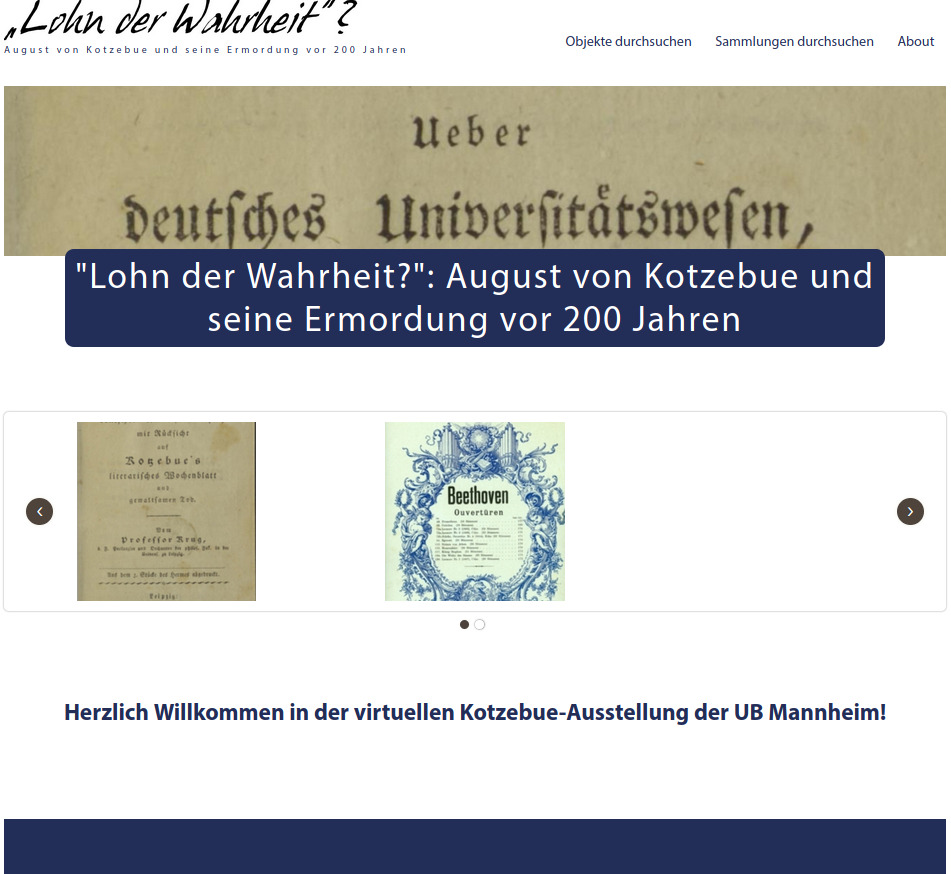
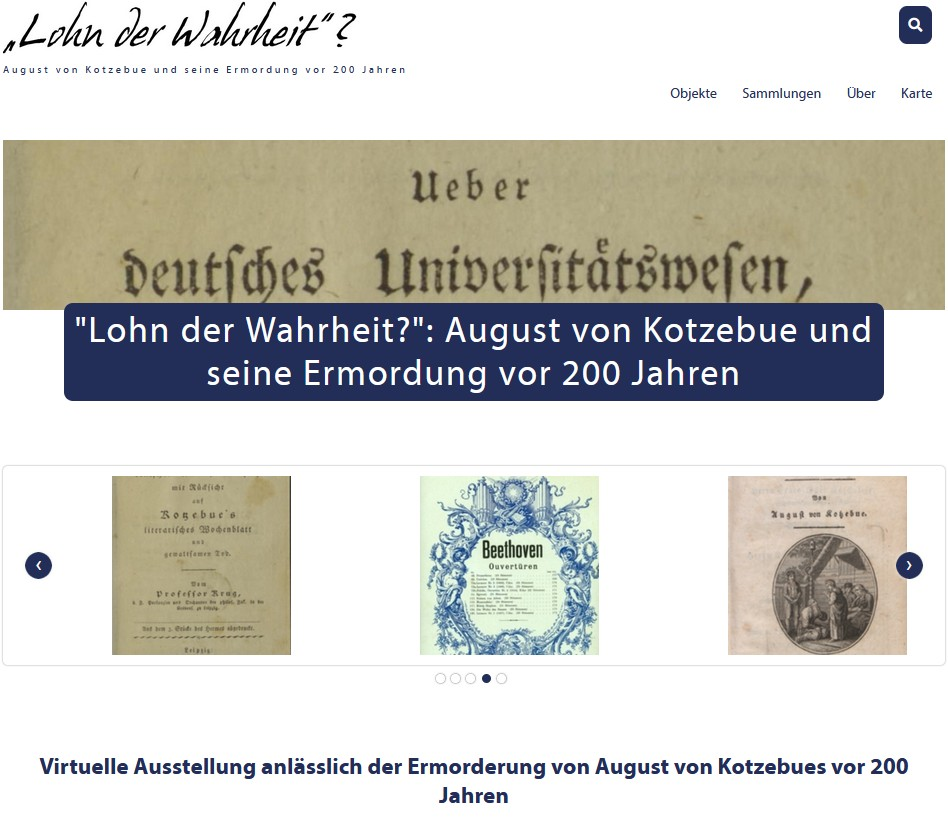
Add more info and explanations to the README + update the theme image

diff --git a/README.md b/README.md
@@ -1,5 +1,138 @@
 # Omeka Classic theme for MAObjects
 
-This theme is based on the [Center Row theme](https://github.com/omeka/theme-centerrow).
+This theme is based on the [Center Row](https://github.com/omeka/theme-centerrow) theme.
 
-It is used by the Mannheim University Library in the context of [MAObjects](https://www.bib.uni-mannheim.de/en/teaching-and-research/research-data-center-fdz/services-of-the-fdz/maobjects/) Omeka deployments.
+It is used by the [Mannheim University Library](https://www.bib.uni-mannheim.de) in the context of [MAObjects](https://www.bib.uni-mannheim.de/en/teaching-and-research/research-data-center-fdz/services-of-the-fdz/maobjects/) Omeka deployments to provide a theme in the corporate design of the [University of Mannheim](https://www.uni-mannheim.de/). MAObjects is a service of the Mannheim University Library that provides researchers with an Omeka-based platform to create and present digital object collections and virtual exhibitions by uploading digital objects, describing them with standardised metadata, and making the data available via an API.
+
+<!-- ![Theme Example (Kotzebue Exhibition)](theme.jpg) -->
+<a href="https://fdz.bib.uni-mannheim.de/kotzebue/"><img src="theme.jpg" alt="Theme Example (Kotzebue Exhibition)" style="max-width:70%; height:auto;" /></a>
+
+- **Powerful search integration:** Optional advanced site-wide search, ability to route or hide the quick search bar, and show/hide child pages in top navigation.
+- **Customizable homepage:** Featured item/collection/exhibit, intro text, optional slideshow with autoplay and speed, optional “floating” minimal homepage layout, and toggleable breadcrumbs.
+- **Item & media display controls:** Multiple user-selected layout options. Optional Lightgallery support (incl. PDFs via PDF Embed), handling of non-image media, configurable media captions, options to hide headings/DC title, and show/hide citation.
+- **Collection views:** Configurable collection browse page style (e.g. grid/list) and options to hide headings/duplicate title entries on collection pages.
+- **Background image options:** Site-wide background image with control over position, repeat, size, and whether it appears beneath the main content area.
+- _much more...!_
+
+## Theme settings
+
+This theme offers extensive customization options through the Omeka admin interface. The listings are grouped in the same way as in the Appearance → Configure Theme screen.
+
+### General
+These options apply to various general aspects of the theme.
+|     Setting     |     Description     |
+|-----------------|---------------------|
+| Disable Image Hover Effect | Disables the zoom-on-hover effect for images throughout the theme. |
+
+### Colors
+Provide a hex code to set the color of different elements of the theme. (Read more about html color codes here. Omeka only uses hex codes, formatted `#XXXXXX`.)
+|     Setting     |     Description     |
+|-----------------|---------------------|
+| Body background color | Hex color for the main page background. |
+| Border color | Hex color used for borders and separators in the theme. |
+| Link color | Hex color for links (normal state). |
+
+### Header and Footer
+These options apply to the header and footer of the theme, including the quick search bar button in the header.
+|     Setting     |     Description     |
+|-----------------|---------------------|
+| Logo File | Upload a logo image to replace the site title in the header (recommended max width ≈ 500 px). |
+| Logo Text | Optional text shown together with the logo (e.g. subtitle or project name). |
+| Logo Text Position | Controls whether the logo text is shown below or beside the logo. |
+| Header Image | Image displayed below the header bar (e.g. banner image). |
+| Header Image Height | Maximum height for the header image (CSS length value such as `300px`, `15rem`, etc.). |
+| Header Image Height For Mobile Devices | Maximum height for the header image on smaller screens. |
+| Header Image Position | Vertical alignment of the header image within its container (top, center or bottom). |
+| Alt Text for Header Image | Alternative text for the header image to improve accessibility and screen-reader support. |
+| Show Header Image On Homepage | Shows the header image on the homepage as well as on other pages. |
+| Footer Text | Custom text/HTML shown in the footer of every page. |
+| Display Copyright in Footer | Appends the site’s copyright information to the footer. |
+| Use Advanced Site-wide Search | Enables Omeka’s advanced search form so users can search across record types and choose boolean operators. |
+| Replace quick search bar with link to items/search | Routes queries from the quick search bar to the `/items/search` page instead of using the basic search. |
+| Do not provide quick search bar | Completely hides the quick search bar from the header. |
+| Show Top Navigation Child Pages | Shows child pages as dropdowns under the top navigation items; when unchecked, only top-level pages are shown. |
+
+### Homepage
+These options apply to the homepage. Most of these options apply only if no other homepage is set in the Omeka settings ( Select a Homepage).
+
+|     Setting     |     Description     |
+|-----------------|---------------------|
+| Display Featured Item | Shows a featured item block on the homepage. |
+| Display Featured Collection | Shows a featured collection block on the homepage. |
+| Display Featured Exhibit | Shows a featured exhibit block (requires the Exhibit Builder plugin). |
+| Homepage Text | Introductory text/HTML displayed on the homepage. |
+| Autoplay Homepage Slides | Automatically cycles through slides in the homepage carousel. |
+| Slide Autoplay Speed | Time in milliseconds between slide transitions when autoplay is enabled (e.g. `5000` = 5 seconds). |
+| Floating Homepage | Uses a “floating” layout where the main homepage content card appears detached from the page background. |
+| Hide 'breadcrumbs' | Hides the breadcrumb trail (the path to the current page) from the top of content pages. |
+
+### Items: Browse
+These options apply to the items browse page (Browse All, Browse by Tag, Browse by Collection, etc.). This is the overview of all items.
+
+|     Setting     |     Description     |
+|-----------------|---------------------|
+| Browse Item Page Style | Choose between **Grid** (thumbnail-focused) and **List** (metadata-focused) layout for item browse pages. |
+| Hide Secondary Navigation | Hides the secondary navigation on browse pages (Browse All, Browse Collections, Browse by Tag, etc.). |
+| Show list of output formats | Shows links to available output formats on item browse and item show pages. |
+
+### Items: Page
+|     Setting     |     Description     |
+|-----------------|---------------------|
+These options apply to the item (show) page. This is the item detail view of one specific item.
+| Layout | Selects the item page layout: vertical (media above/below metadata) or horizontal (media and metadata side by side, with media on left or right). |
+| Content Ratio | For horizontal layouts, percentage width of the primary (media) column; the metadata column uses the remaining width. |
+| Show only primary media | Shows only the primary media file on the item page and hides all other attached files. |
+| Non-Image Media | When enabled, non-image files that cannot be shown in the media viewer are listed as downloadable links instead of being hidden. |
+| Use lightgallery | Uses the lightgallery viewer to display media; when combined with the PDF Embed plugin, PDFs can be shown in the gallery as well. |
+| Hide toolbar from PDF viewer | Hides the PDF viewer toolbar when using PDF Embed with PDF.js (if supported by the browser). |
+| Media Caption | Defines which metadata appears as the caption in lightgallery slides: item **Title**, **Description**, or **None**. |
+| Hide heading | Hides the main heading on the item page. (To hide all element set headings globally, use the Omeka Settings screen.) |
+| Hide Dublin Core Title entry | Hides the “Dublin Core: Title” element in the metadata list (useful to avoid duplicating the page heading). |
+| Show citation | Displays a citation box on the item page. |
+
+### Collection: Browse
+These options apply to the collection browse pages (overview of all collections). This is the overview of all collections.
+|     Setting     |     Description     |
+|-----------------|---------------------|
+| Browse Collection Page Style | Choose between **Grid** and **List** layout for the collection browse page. |
+
+### Collection: Page
+These options apply to the collection show pages (overview of one collections, showing some items). This is the collection detail view of one specific collection.
+|     Setting     |     Description     |
+|-----------------|---------------------|
+| Show Collection Items as list | Information-only reminder that setting **Browse Item Page Style** to *List* will also show collection items in a list on collection pages. |
+| Hide heading | Hides the main heading on the collection page. |
+| Hide Dublin Core Title entry | Hides the “Dublin Core: Title” element in the collection metadata to avoid repeating the heading. |
+
+### Background Image
+These options allow to set a background image which is shown in the background of the theme.
+|     Setting     |     Description     |
+|-----------------|---------------------|
+| Body Background Image | Uploads an image that is used as the global page background. |
+| Body Background Image Position | Chooses how the background image is anchored when the viewport is resized (center, top, bottom, left, right). |
+| Body Background Image Repeat | Controls tiling of the background image (no repeat, repeat, horizontal repeat, vertical repeat). |
+| Body Background Image Size | Controls how the background image is scaled (automatic, cover the viewport, or contain within it). |
+| Do not show background image under content | When enabled, the background image is not shown beneath the main content area, keeping the content background solid. |
+
+## Installation
+
+1. Download the theme archive from the [Omeka themes collection](https://omeka.org/classic/themes/maobjects/) or clone this repository into your Omeka installation's `themes` directory.
+2. In the Omeka admin dashboard, navigate to "Appearance" and activate the "MAObjects" theme by clicking on the "Use this theme"-button.
+3. Customize the theme settings as needed.
+
+## Contributing
+Contributions are welcome! Please fork the repository and submit a pull request with your changes. For major changes, please open an issue first to discuss what you would like to change.
+
+## Copyright & Licence
+
+MAObjects is Copyright © 2024-present Mannheim University Library, Mannheim, Germany [https://www.bib.uni-mannheim.de](https://www.bib.uni-mannheim.de).
+
+Center Row is Copyright © 2018-present Corporation for Digital Scholarship, Vienna, Virginia, USA [http://digitalscholar.org](http://digitalscholar.org).
+
+The Corporation for Digital Scholarship distributes the Omeka source code under the GNU General Public License, version 3 (GPLv3). See the LICENSE file for the full text.
+
+The Omeka name is a registered trademark of the Corporation for Digital Scholarship.
+
+Third-party copyright in this distribution is noted where applicable.
+
+All rights not expressly granted are reserved.
